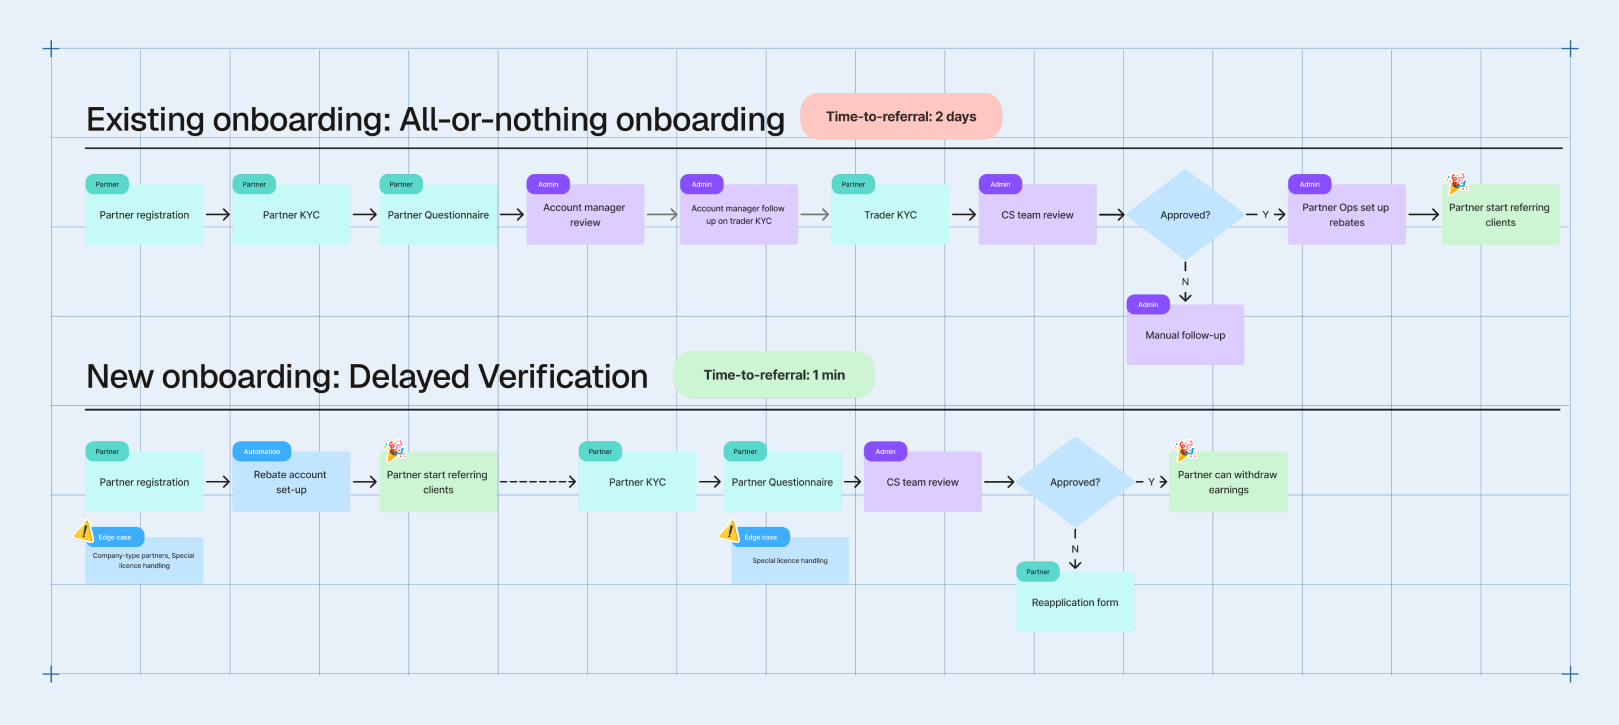
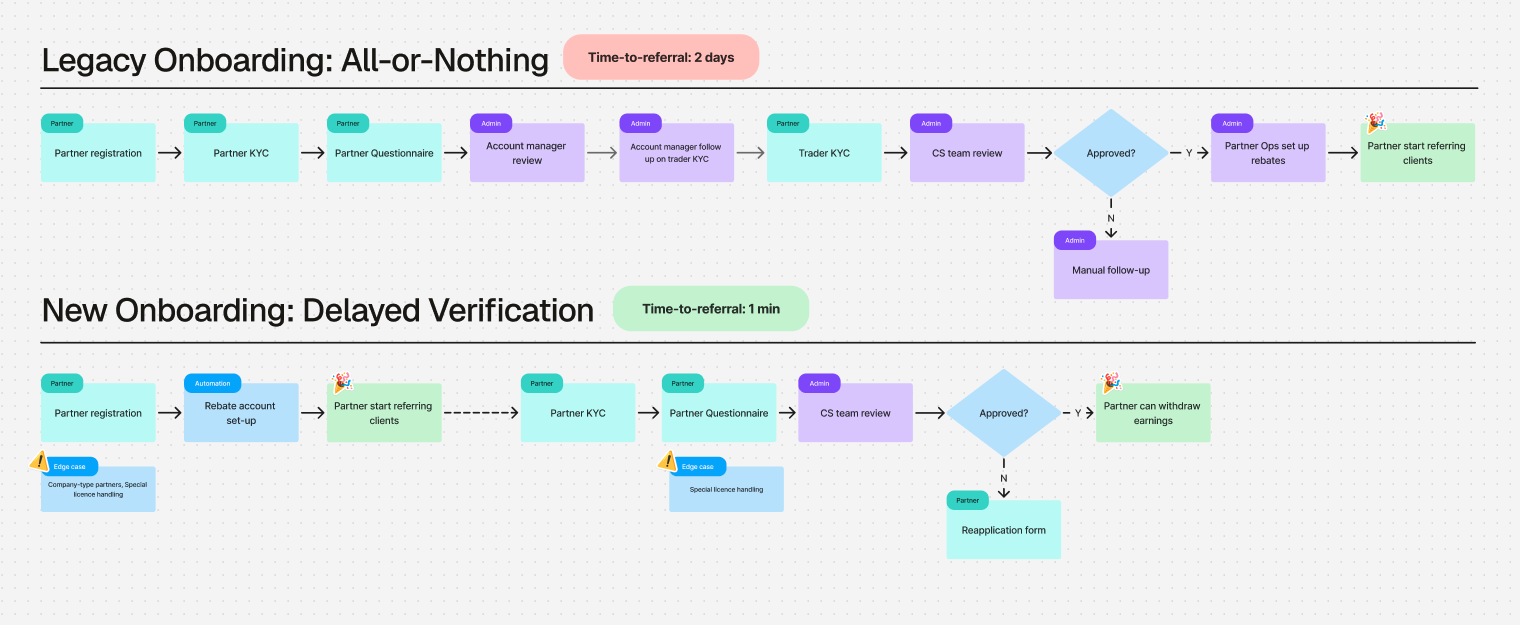
Update Pepperstone user flow diagram and section copy
Swaps in Gloria's re-exported flow (restyled, retitled Legacy/New
Onboarding, 1520x625) and rewrites the heading, description and caption
in her words. Alt text updated to match the new titles and to name the
withdrawal gate that defers verification.

diff --git a/case-pepperstone.html b/case-pepperstone.html
@@ -283,11 +283,11 @@
          four solutions below read as parts of one flow rather than
          standalone screens. -->
     <div class="cs-stack" data-reveal>
-      <h3 class="cs-h3">The journey, before and after</h3>
-      <p class="cs-body">The legacy flow ran nine sequential steps, four of them waiting on a person: an account manager review, a follow-up on the trader’s KYC, and a CS review before approval. Nothing could start until all of it finished. The new flow moves the account set-up to automation, hands over the referral link straight after registration, and defers KYC and the questionnaire to a second pass the partner can take in their own time.</p>
+      <h3 class="cs-h3">The user journey, before and after</h3>
+      <p class="cs-body">The legacy flow ran nine sequential steps, four of them waiting on a person, and partners can do nothing until all of it is finished. The new flow automates the account set-up and allows partners to start referring right after registration. Partner verification is deferred to a later stage and blocks withdrawal of earnings, so partners can do it at their own time but still feel obliged to complete.</p>
       <figure class="cs-figure cs-figure--plain">
-        <img src="assets/pepperstone/user-flow.png" alt="Flow diagram comparing the legacy nine-step onboarding, which takes two days to first referral, with the new flow, which reaches first referral in one minute by automating rebate account set-up and deferring KYC and the questionnaire. Edge cases are marked for company-type partners, special licence handling, and the reapplication path after a rejected review." loading="lazy" decoding="async" width="1619" height="725">
-        <figcaption class="cs-caption">Full onboarding journey, legacy versus new. Yellow markers are the edge cases we had to keep covered; the decision diamond carries the rejection path back into a reapplication form.</figcaption>
+        <img src="assets/pepperstone/user-flow.png" alt="Flow diagram comparing the legacy all-or-nothing onboarding, which takes two days to first referral, with the new delayed-verification flow, which reaches first referral in one minute by automating rebate account set-up and deferring KYC and the questionnaire until withdrawal. Edge cases are marked for company-type partners, special licence handling, and the reapplication path after a rejected review." loading="lazy" decoding="async" width="1520" height="625">
+        <figcaption class="cs-caption">Legacy vs. new partner onboarding journey</figcaption>
       </figure>
     </div>
 
